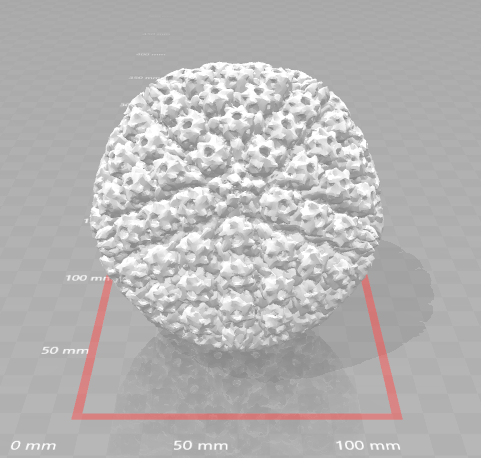
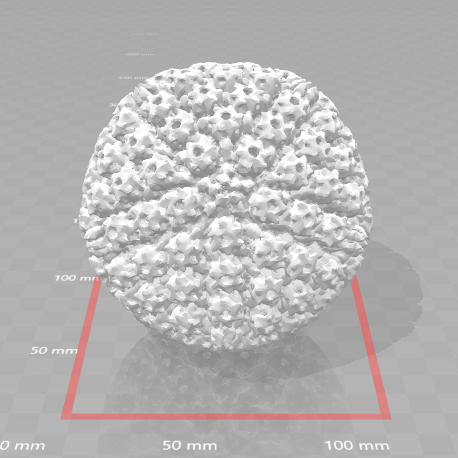
Create T2 bacteriophage

diff --git a/T2Bacteriophage.html b/T2Bacteriophage.html
@@ -1,0 +1,40 @@
+<!doctype html>
+<html>
+<head>
+<meta charset="utf-8">
+<title>T2 Bacteriophage</title>
+<link href="Main.css" rel="stylesheet" type="text/css">
+<link href="https://fonts.googleapis.com/css?family=Bitter|Orbitron|Titillium+Web" rel="stylesheet">
+</head>
+<body>
+<div class="maincontainer">
+  <div class="mainhead">
+    <h1 class="mainhead">T2 Bacteriophage</h1>
+    <a class="mainhead" href="index.html">Home</a>
+  </div>
+  <img class="viruspic" alt="virus picture" src="images/T2Bacteriophage.png">
+  <div class="downloads">
+    <table class="dl">
+      <tr class="dl">
+        <td class="dl">.makerbot</td>
+       <td class="dlicon"><a class="dl" href="makerbot/virus.makerbot"><img alt="makerbot download" class="dl" src="images/dlicon.png"></a></td>
+      </tr>
+    </table>
+    <table class="dl">
+      <tr>
+        <td class="dl">.stl</td>
+        <td class="dlicon"><a class="dl" href="stl/BacteriaphageT2Fibres60.stl"><img alt="stl download" class="dl" src="images/dlicon.png"></a></td>
+      </tr>
+    </table>
+  </div>
+  <p>Enterobacteria phage T2 is a virus that infects and kills E. coli. It is in the genus T4-like viruses, and the family Myoviridae. Its genome consists of linear double-stranded DNA, with repeats at either end. The phage is covered by a protective protein coat.
+
+The T2 phage can quickly turn an E. coli cell into a T2-producing factory that releases phages when the cell ruptures. Experiments conducted by Alfred Hershey and Martha Chase demonstrated how the DNA of viruses is injected into the bacterial cells, while most of the viral proteins remain outside. The injected DNA molecules cause the bacterial cells to produce more viral DNA and proteins. These discoveries supported that DNA, rather than proteins, is the hereditary material.
+
+The first phages that were studied in detail included seven that commonly infect E. coli. They were named Type 1 (T1), Type 2 (T2), etc., for easy reference, but as it happens T2, T4 and T6 are structurally similar (polyhedral head, tail structure and fibres for attaching to the surface of a bacterium), and this easily recognizable shape is now referred to as the T-Even phage.
+
+The phage can attach to the surface of a bacterium using the proteins on its 'feet' (tail fibres), and inject its genetic material (either, but not both, DNA or RNA). This genetic material uses the host cell's ribosomes to replicate, and synthesise proteins for the capsid and tail of the phage. New phages are assembled within the cell - up to 200 - until the cellular membrane lyses (splits open). The newly made phages are now free to attack more cells. This is the Lytic cycle.</p>
+	<p>Summary from <a href="https://en.wikipedia.org/wiki/Enterobacteria_phage_T2">https://en.wikipedia.org/wiki/Enterobacteria_phage_T2</a></p>
+</div>
+</body>
+</html>

diff --git a/Main.css b/Main.css
@@ -92,8 +92,7 @@ img.link {
 }
 h3 {
 	font-family: Orbitron;
-	color: #f2f2f2;
-	text-shadow: 1px 1px 0px black;
+	color: black;
 }
 
 /*Virus Pages*/
